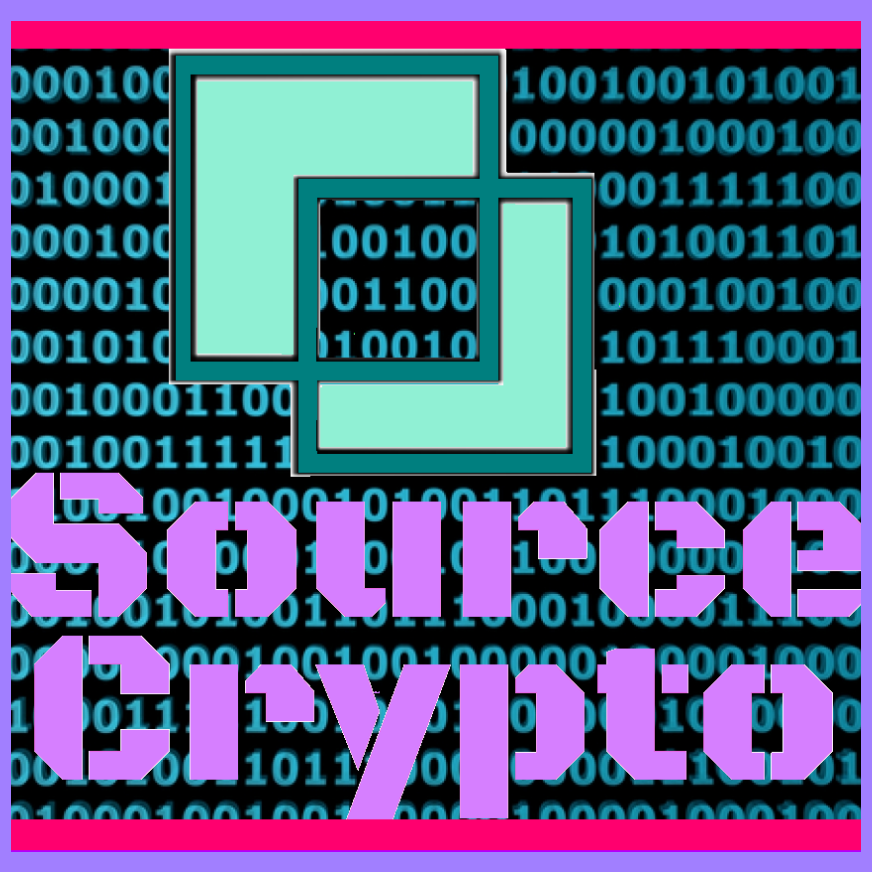
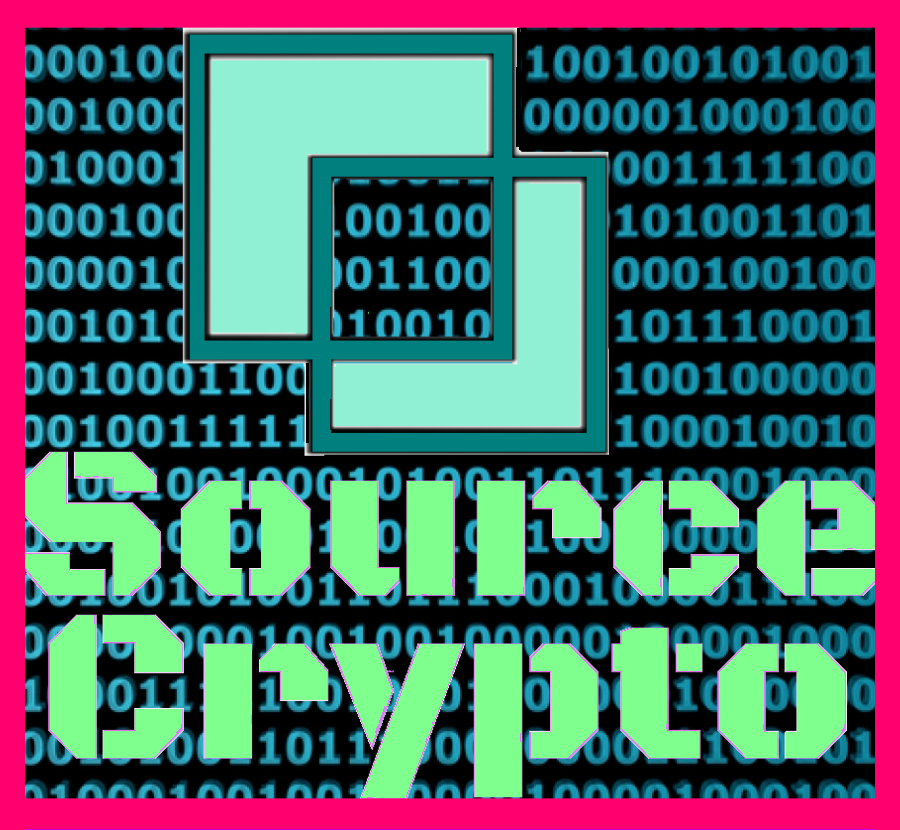
update image

diff --git a/index.md b/index.md
@@ -2,7 +2,7 @@
 layout: home
 title: Research Index and Discord Chat
 description: Building an Open-Source Database of Crypto Knowledge.
-image: "assets/img/source-crypto.png"
+image: "assets/img/source-crypto2.png"
 hide_description: true
 sidebar:
   nav: "infonav"
